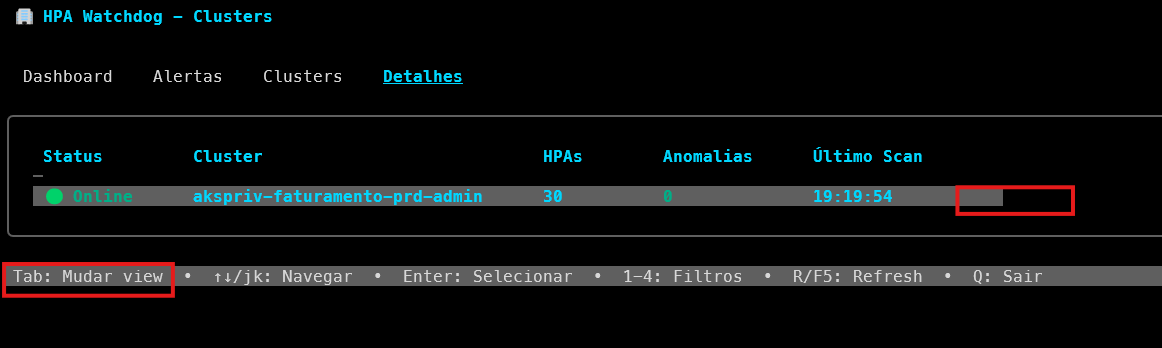
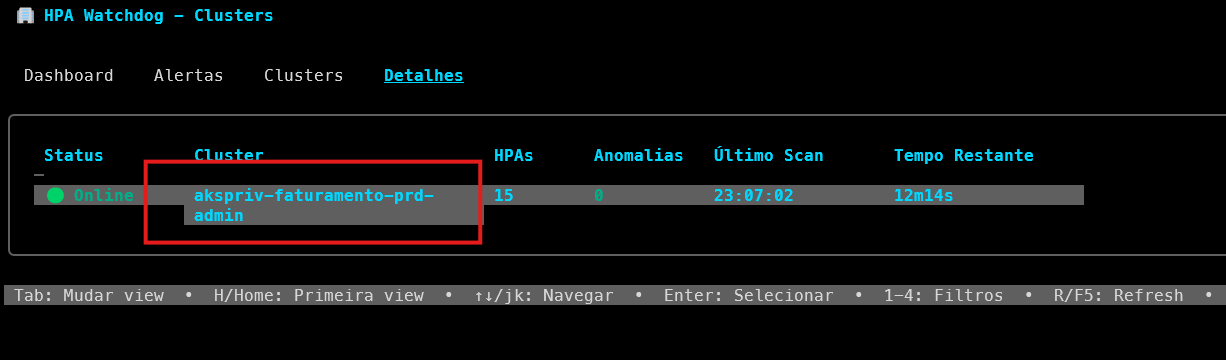
fix: corrigir quebra de linha no nome do cluster
- Implementar função truncateString para limitar tamanho de texto
- Truncar nome do cluster em 28 caracteres com "..." no final
- Evitar quebra de linha quando nome do cluster é muito longo

Antes: Nome longo quebrava em múltiplas linhas
Exemplo: "akspriv-faturamento-prd-admin" quebrava em 2 linhas

Depois: Nome truncado mantém formatação da tabela
Exemplo: "akspriv-faturamento-prd..."

🤖 Generated with [Claude Code](https://claude.com/claude-code)

diff --git a/internal/tui/view_clusters.go b/internal/tui/view_clusters.go
@@ -62,7 +62,7 @@ func (m Model) renderClusterList(clusters []*ClusterInfo) string {
 		}
 
 		status := ClusterStatusBadge(cluster.Status)
-		name := cluster.Name
+		name := truncateString(cluster.Name, 28) // Trunca nome longo
 		hpas := fmt.Sprintf("%d", cluster.TotalHPAs)
 		anomalies := ""
 		if cluster.TotalAnomalies > 0 {
@@ -133,4 +133,13 @@ func (m Model) renderClusterList(clusters []*ClusterInfo) string {
 	return BoxStyle.Copy().Width(m.width - 4).Render(
 		lipgloss.JoinVertical(lipgloss.Left, lines...),
 	)
+}
+
+// truncateString trunca string se exceder maxLen, adicionando "..."
+func truncateString(s string, maxLen int) string {
+	runes := []rune(s)
+	if len(runes) <= maxLen {
+		return s
+	}
+	return string(runes[:maxLen-3]) + "..."
 }
